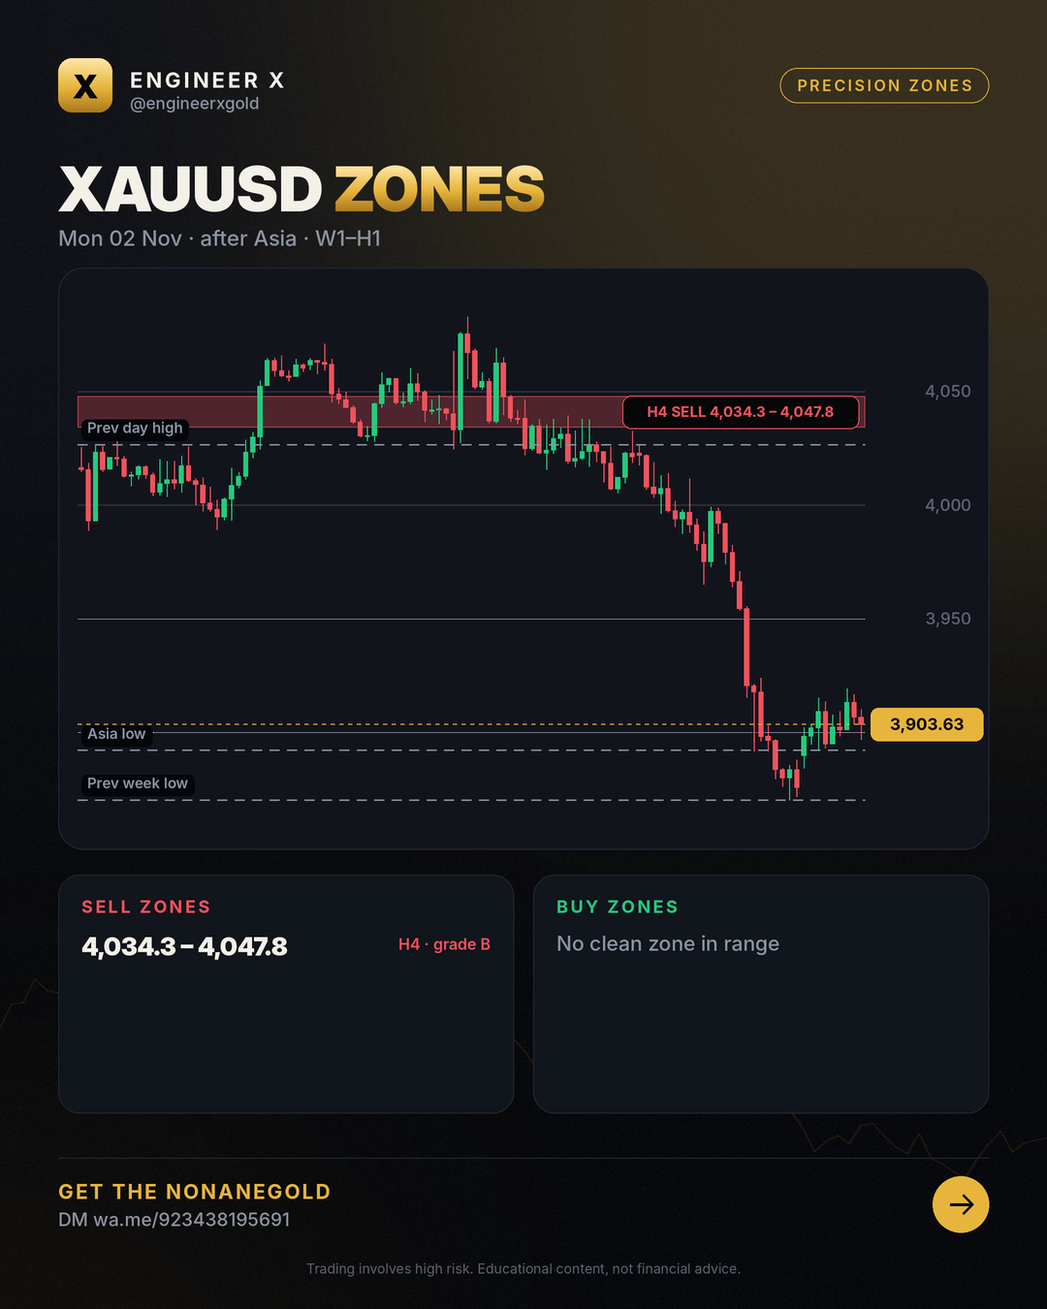
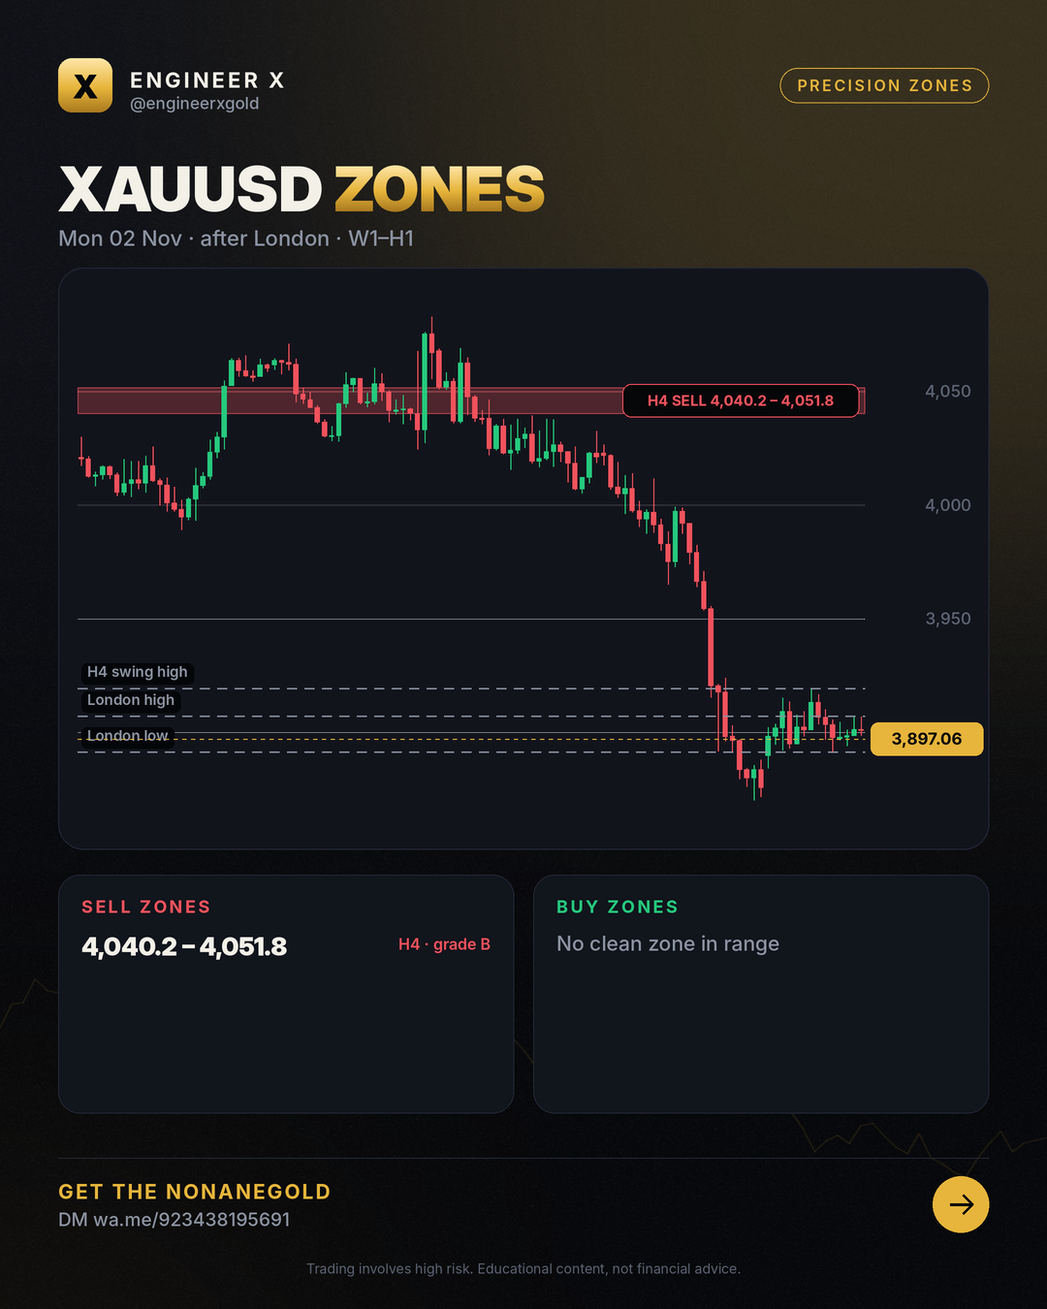
zones 2026-11-02 Mon 02 Nov · after London · W1–H1

diff --git a/zones/index.html b/zones/index.html
@@ -4,7 +4,7 @@
 <meta charset="utf-8">
 <meta name="viewport" content="width=device-width,initial-scale=1">
 <title>XAUUSD Zones Today – Buy &amp; Sell Zones (H4, H1) | Engineer X</title>
-<meta name="description" content="XAUUSD buy and sell zones for 2026-11-02: tested W1, D1, H4 and H1 zones with invalidation levels, updated after the Asian, London and New York sessions. Price 3,903.63.">
+<meta name="description" content="XAUUSD buy and sell zones for 2026-11-02: tested W1, D1, H4 and H1 zones with invalidation levels, updated after the Asian, London and New York sessions. Price 3,897.06.">
 <meta name="robots" content="index,follow,max-image-preview:large,max-snippet:-1,max-video-preview:-1">
 <meta name="author" content="Engr. M Ahmad Mehmood">
 <link rel="canonical" href="https://engineerxgold.github.io/zones/">
@@ -12,7 +12,7 @@
 <link rel="apple-touch-icon" href="../img/logo.png">
 <meta property="og:site_name" content="Engineer X">
 <meta property="og:title" content="XAUUSD Zones Today – Buy &amp; Sell Zones (H4, H1) | Engineer X">
-<meta property="og:description" content="XAUUSD buy and sell zones for 2026-11-02: tested W1, D1, H4 and H1 zones with invalidation levels, updated after the Asian, London and New York sessions. Price 3,903.63.">
+<meta property="og:description" content="XAUUSD buy and sell zones for 2026-11-02: tested W1, D1, H4 and H1 zones with invalidation levels, updated after the Asian, London and New York sessions. Price 3,897.06.">
 <meta property="og:type" content="website">
 <meta property="og:url" content="https://engineerxgold.github.io/zones/">
 <meta property="og:image" content="https://engineerxgold.github.io/zones/img/2026-11-02.png">
@@ -22,7 +22,7 @@
 <meta property="og:locale" content="en_US">
 <meta name="twitter:card" content="summary_large_image">
 <meta name="twitter:title" content="XAUUSD Zones Today – Buy &amp; Sell Zones (H4, H1) | Engineer X">
-<meta name="twitter:description" content="XAUUSD buy and sell zones for 2026-11-02: tested W1, D1, H4 and H1 zones with invalidation levels, updated after the Asian, London and New York sessions. Price 3,903.63.">
+<meta name="twitter:description" content="XAUUSD buy and sell zones for 2026-11-02: tested W1, D1, H4 and H1 zones with invalidation levels, updated after the Asian, London and New York sessions. Price 3,897.06.">
 <meta name="twitter:image" content="https://engineerxgold.github.io/zones/img/2026-11-02.png">
 <meta name="twitter:image:alt" content="XAUUSD Zones Today – Buy &amp; Sell Zones (H4, H1) | Engineer X">
 
@@ -101,7 +101,7 @@ footer .fl a{color:var(--muted);margin-right:16px}
 <div class="wrap">
 <nav><a class="logo" href="../"><b>X</b>Engineer X</a>
 <div class="links"><a href="../zones/">Daily Zones</a><a href="../blog/">Learn</a><a href="../ea/">Gold EA</a><a href="../about/">About</a><a class="cta" href="https://wa.me/923438195691">Get the EA</a></div></nav>
-<section class="hero"><span class="chip">Updated Mon 02 Nov · after Asia · W1–H1</span><h1>XAUUSD <span class="gold">precision zones</span></h1><p>XAUUSD buy and sell zones for 2026-11-02: tested W1, D1, H4 and H1 zones with invalidation levels, updated after the Asian, London and New York sessions. Price 3,903.63.</p></section><img src="img/2026-11-02.png" alt="Latest XAUUSD zone map" width="1080" height="1350"><section><h2>Current zones</h2><div style="overflow-x:auto"><table style="width:100%;border-collapse:collapse;font-size:15px"><tr><th align=left>Zone</th><th align=left>Price band</th><th>Grade</th><th align=left>Invalid</th><th align=left>Why</th></tr><tr><td>H4 sell</td><td><b>4,034.28 – 4,047.75</b></td><td>B</td><td>above 4,049.43</td><td>Confluence score 3: SMC + LIQ + QM</td></tr></table></div></section><section><h2>Honest scorecard</h2><div class="grid"><div class="card"><div class="n">215</div><p>zones published (30 days)</p></div><div class="card"><div class="n">112</div><p>held (moved 1 hourly ATR away)</p></div><div class="card"><div class="n">18</div><p>broke (traded beyond the invalidation)</p></div><div class="card"><div class="n">86%</div><p>hold rate of decided zones</p></div></div></section><div class="ctabox"><h3>🤖 Trade the zones with the NonaneGold</h3><p>Free signals group access + setup help Message us and we will help you set it up.</p><div class="btns"><a class="btn gold" href="https://wa.me/923438195691">Get the EA on Telegram</a><a class="btn ghost" href="../ea/">About the EA</a></div></div><section><h2>Archive</h2><div class="grid posts"><a class="card" href="2026-11-02/"><span class="date">2026-11-02</span><h3>XAUUSD zones 2026-11-02</h3></a><a class="card" href="2026-10-30/"><span class="date">2026-10-30</span><h3>XAUUSD zones 2026-10-30</h3></a><a class="card" href="2026-10-29/"><span class="date">2026-10-29</span><h3>XAUUSD zones 2026-10-29</h3></a><a class="card" href="2026-10-28/"><span class="date">2026-10-28</span><h3>XAUUSD zones 2026-10-28</h3></a><a class="card" href="2026-10-27/"><span class="date">2026-10-27</span><h3>XAUUSD zones 2026-10-27</h3></a><a class="card" href="2026-10-26/"><span class="date">2026-10-26</span><h3>XAUUSD zones 2026-10-26</h3></a><a class="card" href="2026-10-23/"><span class="date">2026-10-23</span><h3>XAUUSD zones 2026-10-23</h3></a><a class="card" href="2026-10-22/"><span class="date">2026-10-22</span><h3>XAUUSD zones 2026-10-22</h3></a><a class="card" href="2026-10-21/"><span class="date">2026-10-21</span><h3>XAUUSD zones 2026-10-21</h3></a><a class="card" href="2026-10-20/"><span class="date">2026-10-20</span><h3>XAUUSD zones 2026-10-20</h3></a><a class="card" href="2026-10-19/"><span class="date">2026-10-19</span><h3>XAUUSD zones 2026-10-19</h3></a><a class="card" href="2026-10-16/"><span class="date">2026-10-16</span><h3>XAUUSD zones 2026-10-16</h3></a><a class="card" href="2026-10-15/"><span class="date">2026-10-15</span><h3>XAUUSD zones 2026-10-15</h3></a><a class="card" href="2026-10-14/"><span class="date">2026-10-14</span><h3>XAUUSD zones 2026-10-14</h3></a><a class="card" href="2026-10-13/"><span class="date">2026-10-13</span><h3>XAUUSD zones 2026-10-13</h3></a></div></section>
+<section class="hero"><span class="chip">Updated Mon 02 Nov · after London · W1–H1</span><h1>XAUUSD <span class="gold">precision zones</span></h1><p>XAUUSD buy and sell zones for 2026-11-02: tested W1, D1, H4 and H1 zones with invalidation levels, updated after the Asian, London and New York sessions. Price 3,897.06.</p></section><img src="img/2026-11-02.png" alt="Latest XAUUSD zone map" width="1080" height="1350"><section><h2>Current zones</h2><div style="overflow-x:auto"><table style="width:100%;border-collapse:collapse;font-size:15px"><tr><th align=left>Zone</th><th align=left>Price band</th><th>Grade</th><th align=left>Invalid</th><th align=left>Why</th></tr><tr><td>H4 sell</td><td><b>4,040.23 – 4,051.77</b></td><td>B</td><td>above 4,053.21</td><td>Confluence score 2: SMC + QM</td></tr></table></div></section><section><h2>Honest scorecard</h2><div class="grid"><div class="card"><div class="n">216</div><p>zones published (30 days)</p></div><div class="card"><div class="n">112</div><p>held (moved 1 hourly ATR away)</p></div><div class="card"><div class="n">18</div><p>broke (traded beyond the invalidation)</p></div><div class="card"><div class="n">86%</div><p>hold rate of decided zones</p></div></div></section><div class="ctabox"><h3>🤖 Trade the zones with the NonaneGold</h3><p>Free signals group access + setup help Message us and we will help you set it up.</p><div class="btns"><a class="btn gold" href="https://wa.me/923438195691">Get the EA on Telegram</a><a class="btn ghost" href="../ea/">About the EA</a></div></div><section><h2>Archive</h2><div class="grid posts"><a class="card" href="2026-11-02/"><span class="date">2026-11-02</span><h3>XAUUSD zones 2026-11-02</h3></a><a class="card" href="2026-10-30/"><span class="date">2026-10-30</span><h3>XAUUSD zones 2026-10-30</h3></a><a class="card" href="2026-10-29/"><span class="date">2026-10-29</span><h3>XAUUSD zones 2026-10-29</h3></a><a class="card" href="2026-10-28/"><span class="date">2026-10-28</span><h3>XAUUSD zones 2026-10-28</h3></a><a class="card" href="2026-10-27/"><span class="date">2026-10-27</span><h3>XAUUSD zones 2026-10-27</h3></a><a class="card" href="2026-10-26/"><span class="date">2026-10-26</span><h3>XAUUSD zones 2026-10-26</h3></a><a class="card" href="2026-10-23/"><span class="date">2026-10-23</span><h3>XAUUSD zones 2026-10-23</h3></a><a class="card" href="2026-10-22/"><span class="date">2026-10-22</span><h3>XAUUSD zones 2026-10-22</h3></a><a class="card" href="2026-10-21/"><span class="date">2026-10-21</span><h3>XAUUSD zones 2026-10-21</h3></a><a class="card" href="2026-10-20/"><span class="date">2026-10-20</span><h3>XAUUSD zones 2026-10-20</h3></a><a class="card" href="2026-10-19/"><span class="date">2026-10-19</span><h3>XAUUSD zones 2026-10-19</h3></a><a class="card" href="2026-10-16/"><span class="date">2026-10-16</span><h3>XAUUSD zones 2026-10-16</h3></a><a class="card" href="2026-10-15/"><span class="date">2026-10-15</span><h3>XAUUSD zones 2026-10-15</h3></a><a class="card" href="2026-10-14/"><span class="date">2026-10-14</span><h3>XAUUSD zones 2026-10-14</h3></a><a class="card" href="2026-10-13/"><span class="date">2026-10-13</span><h3>XAUUSD zones 2026-10-13</h3></a></div></section>
 <footer>
 <div class="warn"><b>Risk warning:</b> Trading gold, forex and CFDs carries a high risk of losing money and is not suitable for everyone. Past results do not guarantee future results. Everything on this site is educational and not financial advice. We are an introducing partner of our broker and may earn a commission on accounts opened through our link.</div>
 <p class="fl" style="margin-top:18px"><a href="../about/">About &amp; methodology</a><a href="../privacy.html">Privacy</a><a href="../terms.html">Terms &amp; risk disclosure</a><a href="../feed.xml">RSS</a><a href="https://t.me/engineerxgold">Telegram</a></p>

diff --git a/zones/2026-11-02/index.html b/zones/2026-11-02/index.html
@@ -4,7 +4,7 @@
 <meta charset="utf-8">
 <meta name="viewport" content="width=device-width,initial-scale=1">
 <title>Xauusd Analysis – 02 Nov 2026 (W1–H1)</title>
-<meta name="description" content="XAUUSD buy and sell zones for 2026-11-02: tested W1, D1, H4 and H1 zones with invalidation levels, updated after the Asian, London and New York sessions. Price 3,903.63.">
+<meta name="description" content="XAUUSD buy and sell zones for 2026-11-02: tested W1, D1, H4 and H1 zones with invalidation levels, updated after the Asian, London and New York sessions. Price 3,897.06.">
 <meta name="robots" content="index,follow,max-image-preview:large,max-snippet:-1,max-video-preview:-1">
 <meta name="author" content="Engr. M Ahmad Mehmood">
 <link rel="canonical" href="https://engineerxgold.github.io/zones/2026-11-02/">
@@ -12,7 +12,7 @@
 <link rel="apple-touch-icon" href="../../img/logo.png">
 <meta property="og:site_name" content="Engineer X">
 <meta property="og:title" content="Xauusd Analysis – 02 Nov 2026 (W1–H1)">
-<meta property="og:description" content="XAUUSD buy and sell zones for 2026-11-02: tested W1, D1, H4 and H1 zones with invalidation levels, updated after the Asian, London and New York sessions. Price 3,903.63.">
+<meta property="og:description" content="XAUUSD buy and sell zones for 2026-11-02: tested W1, D1, H4 and H1 zones with invalidation levels, updated after the Asian, London and New York sessions. Price 3,897.06.">
 <meta property="og:type" content="article">
 <meta property="og:url" content="https://engineerxgold.github.io/zones/2026-11-02/">
 <meta property="og:image" content="https://engineerxgold.github.io/zones/img/2026-11-02.png">
@@ -22,7 +22,7 @@
 <meta property="og:locale" content="en_US">
 <meta name="twitter:card" content="summary_large_image">
 <meta name="twitter:title" content="Xauusd Analysis – 02 Nov 2026 (W1–H1)">
-<meta name="twitter:description" content="XAUUSD buy and sell zones for 2026-11-02: tested W1, D1, H4 and H1 zones with invalidation levels, updated after the Asian, London and New York sessions. Price 3,903.63.">
+<meta name="twitter:description" content="XAUUSD buy and sell zones for 2026-11-02: tested W1, D1, H4 and H1 zones with invalidation levels, updated after the Asian, London and New York sessions. Price 3,897.06.">
 <meta name="twitter:image" content="https://engineerxgold.github.io/zones/img/2026-11-02.png">
 <meta name="twitter:image:alt" content="Xauusd Analysis – 02 Nov 2026 (W1–H1)">
 
@@ -32,7 +32,7 @@
 <link rel="preconnect" href="https://fonts.googleapis.com">
 <link rel="preconnect" href="https://fonts.gstatic.com" crossorigin>
 <link href="https://fonts.googleapis.com/css2?family=Inter:wght@400;500;600;800;900&display=swap" rel="stylesheet">
-<script type="application/ld+json">{"@context": "https://schema.org", "@type": "Organization", "@id": "https://engineerxgold.github.io/#organization", "name": "Engineer X", "url": "https://engineerxgold.github.io/", "logo": {"@type": "ImageObject", "url": "https://engineerxgold.github.io/img/logo.png", "width": 512, "height": 512}, "sameAs": ["https://t.me/engineerxgold"]}</script><script type="application/ld+json">{"@context": "https://schema.org", "@type": "Article", "headline": "Xauusd Analysis – 02 Nov 2026 (W1–H1)", "datePublished": "2026-11-02T08:00:00+05:00", "dateModified": "2026-11-02T13:03:37+05:00", "author": {"@type": "Person", "@id": "https://engineerxgold.github.io/about/#author", "name": "Engr. M Ahmad Mehmood", "url": "https://engineerxgold.github.io/about/", "jobTitle": "MQL5 Expert Advisor developer and gold market analyst", "worksFor": {"@id": "https://engineerxgold.github.io/#organization"}}, "publisher": {"@id": "https://engineerxgold.github.io/#organization"}, "image": "https://engineerxgold.github.io/zones/img/2026-11-02.png", "mainEntityOfPage": "https://engineerxgold.github.io/zones/2026-11-02/"}</script>
+<script type="application/ld+json">{"@context": "https://schema.org", "@type": "Organization", "@id": "https://engineerxgold.github.io/#organization", "name": "Engineer X", "url": "https://engineerxgold.github.io/", "logo": {"@type": "ImageObject", "url": "https://engineerxgold.github.io/img/logo.png", "width": 512, "height": 512}, "sameAs": ["https://t.me/engineerxgold"]}</script><script type="application/ld+json">{"@context": "https://schema.org", "@type": "Article", "headline": "Xauusd Analysis – 02 Nov 2026 (W1–H1)", "datePublished": "2026-11-02T08:00:00+05:00", "dateModified": "2026-11-02T18:03:37+05:00", "author": {"@type": "Person", "@id": "https://engineerxgold.github.io/about/#author", "name": "Engr. M Ahmad Mehmood", "url": "https://engineerxgold.github.io/about/", "jobTitle": "MQL5 Expert Advisor developer and gold market analyst", "worksFor": {"@id": "https://engineerxgold.github.io/#organization"}}, "publisher": {"@id": "https://engineerxgold.github.io/#organization"}, "image": "https://engineerxgold.github.io/zones/img/2026-11-02.png", "mainEntityOfPage": "https://engineerxgold.github.io/zones/2026-11-02/"}</script>
 
 <style>
 :root{--gold:#E7B53B;--gold-hi:#FFE7A8;--bg:#07080B;--bg2:#0E1016;--panel:#12151D;--line:#232836;--green:#25C97D;--red:#F0525C;--text:#F3F0E8;--muted:#8C93A1}
@@ -101,7 +101,7 @@ footer .fl a{color:var(--muted);margin-right:16px}
 <div class="wrap">
 <nav><a class="logo" href="../../"><b>X</b>Engineer X</a>
 <div class="links"><a href="../../zones/">Daily Zones</a><a href="../../blog/">Learn</a><a href="../../ea/">Gold EA</a><a href="../../about/">About</a><a class="cta" href="https://wa.me/923438195691">Get the EA</a></div></nav>
-<article><p class="crumbs"><a href="../../">Home</a> › <a href="../">Zones</a> › 2026-11-02</p><h1>Xauusd Analysis – 02 Nov 2026 (W1–H1)</h1><p class="byline">Mon 02 Nov · after Asia · W1–H1 · by Engr. M Ahmad Mehmood</p><img src="../img/2026-11-02.png" alt="XAUUSD zone map 2026-11-02" width="1080" height="1350" loading="eager"><h2>Zones</h2><div style="overflow-x:auto"><table style="width:100%;border-collapse:collapse;font-size:15px"><tr><th align=left>Zone</th><th align=left>Price band</th><th>Grade</th><th align=left>Invalid</th><th align=left>Why</th></tr><tr><td>H4 sell</td><td><b>4,034.28 – 4,047.75</b></td><td>B</td><td>above 4,049.43</td><td>Confluence score 3: SMC + LIQ + QM</td></tr></table></div><h2>How to read this map</h2><p>Bands are where price is expected to react; they are not entries. Trading beyond the invalidation price ends the zone; each zone counts once (first touch). Highs and lows listed as liquidity are targets: on 10 years of gold price ran through them more often than through random levels.</p><div class="ctabox"><h3>🤖 Trade the zones with the NonaneGold</h3><p>Free signals group access + setup help Message us and we will help you set it up.</p><div class="btns"><a class="btn gold" href="https://wa.me/923438195691">Get the EA on Telegram</a><a class="btn ghost" href="../../ea/">About the EA</a></div></div></article>
+<article><p class="crumbs"><a href="../../">Home</a> › <a href="../">Zones</a> › 2026-11-02</p><h1>Xauusd Analysis – 02 Nov 2026 (W1–H1)</h1><p class="byline">Mon 02 Nov · after London · W1–H1 · by Engr. M Ahmad Mehmood</p><img src="../img/2026-11-02.png" alt="XAUUSD zone map 2026-11-02" width="1080" height="1350" loading="eager"><h2>Zones</h2><div style="overflow-x:auto"><table style="width:100%;border-collapse:collapse;font-size:15px"><tr><th align=left>Zone</th><th align=left>Price band</th><th>Grade</th><th align=left>Invalid</th><th align=left>Why</th></tr><tr><td>H4 sell</td><td><b>4,040.23 – 4,051.77</b></td><td>B</td><td>above 4,053.21</td><td>Confluence score 2: SMC + QM</td></tr></table></div><h2>How to read this map</h2><p>Bands are where price is expected to react; they are not entries. Trading beyond the invalidation price ends the zone; each zone counts once (first touch). Highs and lows listed as liquidity are targets: on 10 years of gold price ran through them more often than through random levels.</p><div class="ctabox"><h3>🤖 Trade the zones with the NonaneGold</h3><p>Free signals group access + setup help Message us and we will help you set it up.</p><div class="btns"><a class="btn gold" href="https://wa.me/923438195691">Get the EA on Telegram</a><a class="btn ghost" href="../../ea/">About the EA</a></div></div></article>
 <footer>
 <div class="warn"><b>Risk warning:</b> Trading gold, forex and CFDs carries a high risk of losing money and is not suitable for everyone. Past results do not guarantee future results. Everything on this site is educational and not financial advice. We are an introducing partner of our broker and may earn a commission on accounts opened through our link.</div>
 <p class="fl" style="margin-top:18px"><a href="../../about/">About &amp; methodology</a><a href="../../privacy.html">Privacy</a><a href="../../terms.html">Terms &amp; risk disclosure</a><a href="../../feed.xml">RSS</a><a href="https://t.me/engineerxgold">Telegram</a></p>

diff --git a/index.html b/index.html
@@ -101,7 +101,7 @@ footer .fl a{color:var(--muted);margin-right:16px}
 <div class="wrap">
 <nav><a class="logo" href="./"><b>X</b>Engineer X</a>
 <div class="links"><a href="./zones/">Daily Zones</a><a href="./blog/">Learn</a><a href="./ea/">Gold EA</a><a href="./about/">About</a><a class="cta" href="https://wa.me/923438195691">Get the EA</a></div></nav>
-<section class="hero"><span class="chip">XAUUSD · W1–H1 · every session</span><h1>Gold <span class="gold">precision zones</span>, updated after every session</h1><p>Tested buy and sell zones with clear invalidation, a scorecard of every result, and the NonaneGold for traders who want it automated.</p><div class="btns"><a class="btn gold" href="zones/">See today's zones</a><a class="btn ghost" href="https://wa.me/923438195691">Get the EA</a></div></section><section><h2>Latest map Mon 02 Nov · after Asia · W1–H1</h2><img src="zones/img/2026-11-02.png" alt="Latest XAUUSD zones" width="1080" height="1350"></section><div class="ctabox"><h3>🤖 Trade the zones with the NonaneGold</h3><p>Free signals group access + setup help Message us and we will help you set it up.</p><div class="btns"><a class="btn gold" href="https://wa.me/923438195691">Get the EA on Telegram</a><a class="btn ghost" href="ea/">About the EA</a></div></div><section><h2>Learn</h2><div class="grid posts"><a class="card" href="blog/gold-supply-and-demand-zones-h4-setup-levels/"><span class="date">2026-11-01</span><h3>Gold Supply and Demand Zones: H4 Setup &amp; Levels</h3></a><a class="card" href="blog/gold-supply-and-demand-zones-h4-h1-trading-map-2026-10-31/"><span class="date">2026-10-31</span><h3>Gold Supply and Demand Zones: H4 &amp; H1 Trading Map</h3></a><a class="card" href="blog/gold-price-today-live-technical-levels-zone-map/"><span class="date">2026-10-30</span><h3>Gold Price Today: Live Technical Levels &amp; Zone Map</h3></a><a class="card" href="blog/gold-trading-h4-trend-zones-liquidity-map/"><span class="date">2026-10-29</span><h3>Gold Trading: H4 Trend Zones &amp; Liquidity Map</h3></a><a class="card" href="blog/gold-trading-analyzing-today-s-zones-liquidity/"><span class="date">2026-10-28</span><h3>Gold Trading: Analyzing Today&#x27;s Zones &amp; Liquidity</h3></a><a class="card" href="blog/xauusd-analysis-key-gold-trading-zones-liquidity/"><span class="date">2026-10-27</span><h3>XAUUSD Analysis: Key Gold Trading Zones &amp; Liquidity</h3></a></div></section><section><h2>FAQ</h2><details><summary>What is a precision zone?</summary><p>A point of interest from a trading book (OTE 0.705, balanced price range, weekly close level, daily order block) that held better than random levels on 10 years of gold. Each zone has an invalidation price.</p></details><details><summary>How often are the zones updated?</summary><p>A daily plan at the Asian open, then after the Asian, London and New York sessions.</p></details><details><summary>Are these trade signals?</summary><p>No. Zones are areas to watch. Wait for your own confirmation and manage risk.</p></details><details><summary>How do I get the Gold EA?</summary><p>Message us on Telegram or WhatsApp; we answer and help with the setup.</p></details></section>
+<section class="hero"><span class="chip">XAUUSD · W1–H1 · every session</span><h1>Gold <span class="gold">precision zones</span>, updated after every session</h1><p>Tested buy and sell zones with clear invalidation, a scorecard of every result, and the NonaneGold for traders who want it automated.</p><div class="btns"><a class="btn gold" href="zones/">See today's zones</a><a class="btn ghost" href="https://wa.me/923438195691">Get the EA</a></div></section><section><h2>Latest map Mon 02 Nov · after London · W1–H1</h2><img src="zones/img/2026-11-02.png" alt="Latest XAUUSD zones" width="1080" height="1350"></section><div class="ctabox"><h3>🤖 Trade the zones with the NonaneGold</h3><p>Free signals group access + setup help Message us and we will help you set it up.</p><div class="btns"><a class="btn gold" href="https://wa.me/923438195691">Get the EA on Telegram</a><a class="btn ghost" href="ea/">About the EA</a></div></div><section><h2>Learn</h2><div class="grid posts"><a class="card" href="blog/gold-supply-and-demand-zones-h4-setup-levels/"><span class="date">2026-11-01</span><h3>Gold Supply and Demand Zones: H4 Setup &amp; Levels</h3></a><a class="card" href="blog/gold-supply-and-demand-zones-h4-h1-trading-map-2026-10-31/"><span class="date">2026-10-31</span><h3>Gold Supply and Demand Zones: H4 &amp; H1 Trading Map</h3></a><a class="card" href="blog/gold-price-today-live-technical-levels-zone-map/"><span class="date">2026-10-30</span><h3>Gold Price Today: Live Technical Levels &amp; Zone Map</h3></a><a class="card" href="blog/gold-trading-h4-trend-zones-liquidity-map/"><span class="date">2026-10-29</span><h3>Gold Trading: H4 Trend Zones &amp; Liquidity Map</h3></a><a class="card" href="blog/gold-trading-analyzing-today-s-zones-liquidity/"><span class="date">2026-10-28</span><h3>Gold Trading: Analyzing Today&#x27;s Zones &amp; Liquidity</h3></a><a class="card" href="blog/xauusd-analysis-key-gold-trading-zones-liquidity/"><span class="date">2026-10-27</span><h3>XAUUSD Analysis: Key Gold Trading Zones &amp; Liquidity</h3></a></div></section><section><h2>FAQ</h2><details><summary>What is a precision zone?</summary><p>A point of interest from a trading book (OTE 0.705, balanced price range, weekly close level, daily order block) that held better than random levels on 10 years of gold. Each zone has an invalidation price.</p></details><details><summary>How often are the zones updated?</summary><p>A daily plan at the Asian open, then after the Asian, London and New York sessions.</p></details><details><summary>Are these trade signals?</summary><p>No. Zones are areas to watch. Wait for your own confirmation and manage risk.</p></details><details><summary>How do I get the Gold EA?</summary><p>Message us on Telegram or WhatsApp; we answer and help with the setup.</p></details></section>
 <footer>
 <div class="warn"><b>Risk warning:</b> Trading gold, forex and CFDs carries a high risk of losing money and is not suitable for everyone. Past results do not guarantee future results. Everything on this site is educational and not financial advice. We are an introducing partner of our broker and may earn a commission on accounts opened through our link.</div>
 <p class="fl" style="margin-top:18px"><a href="./about/">About &amp; methodology</a><a href="./privacy.html">Privacy</a><a href="./terms.html">Terms &amp; risk disclosure</a><a href="./feed.xml">RSS</a><a href="https://t.me/engineerxgold">Telegram</a></p>
